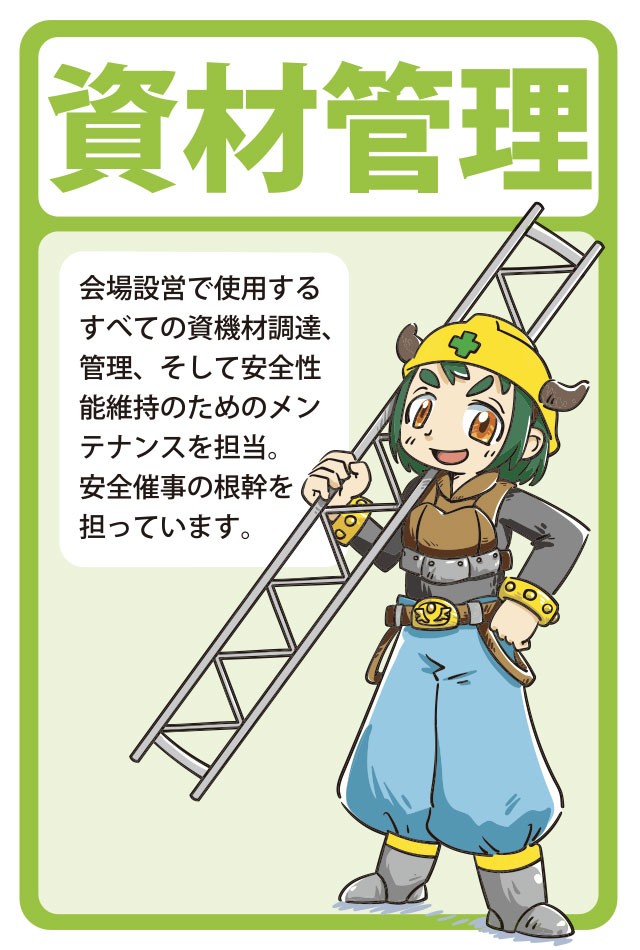
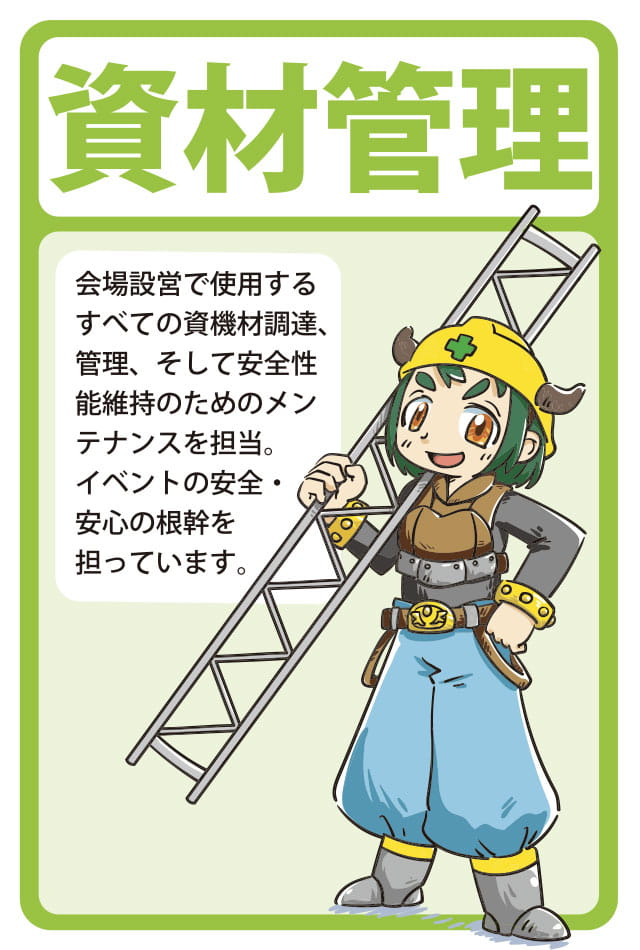
update:事業概要（主なイベント会場）修正、催事→イベント文字修正、カード修正

diff --git a/wp/wp-content/themes/osakashimizu/page-business.php b/wp/wp-content/themes/osakashimizu/page-business.php
@@ -84,60 +84,60 @@ get_header();
                                 <div class="venue-block">
                                     <h3>大阪府</h3>
                                     <ul>
-                                        <li>オリックス劇場</li>
-                                        <li>フェスティバルホール</li>
-                                        <li>Zepp Namba（OSAKA）</li>
-                                        <li>京セラドーム大阪</li>
-                                        <li>大阪城ホール</li>
-                                        <li>Asueアリーナ大阪（大阪市中央体育館）</li>
-                                        <li>エディオンアリーナ大阪（大阪府立体育会館）</li>
-                                        <li>おおきにアリーナ舞洲（舞洲アリーナ）</li>
-                                        <li>ヤンマースタジアム長居（大阪市長居陸上競技場）</li>
+                                        <li>Asueアリーナ大阪</li>
                                         <li>インテックス大阪</li>
-                                        <li>ユニバーサル・スタジオ・ジャパン（USJ）</li>
                                         <li>靭公園</li>
-                                        <li>万博記念公園</li>
-                                        <li>Panasonic Stadium Suita</li>
-                                        <li>東大阪市花園ラグビー場</li>
+                                        <li>エディオンアリーナ大阪（大阪府立体育会館）</li>
+                                        <li>おおきにアリーナ舞洲</li>
+                                        <li>大阪城ホール</li>
                                         <li>大阪中之島美術館</li>
+                                        <li>オリックス劇場</li>
+                                        <li>京セラドーム大阪</li>
                                         <li>Zepp Osaka Bayside</li>
+                                        <li>Zepp Namba（OSAKA）</li>
+                                        <li>Panasonic Stadium Suita</li>
+                                        <li>万博記念公園</li>
+                                        <li>東大阪市花園ラグビー場</li>
+                                        <li>フェスティバルホール</li>
                                         <li>BOAT RACE 住之江</li>
+                                        <li>ヤンマースタジアム長居（大阪市長居陸上競技場）</li>
                                     </ul>
                                 </div>
                                 <div class="venue-block">
                                     <h3>兵庫県</h3>
                                     <ul>
-                                        <li>阪神甲子園球場</li>
-                                        <li>ワールド記念ホール（神戸ポートアイランドホール）</li>
-                                        <li>ブルボンビーンズドーム（兵庫県立三木総合防災公園屋内テニス場）</li>
+                                        <li>GLION ARENA KOBE</li>
+                                        <li>ノエビアスタジアム神戸</li>
                                         <li>阪神競馬場</li>
+                                        <li>阪神甲子園球場</li>
+                                        <li>ブルボンビーンズドーム（兵庫県立三木総合防災公園屋内テニス場）</li>
                                         <li>ほっともっとフィールド神戸（神戸総合運動公園野球場）</li>
-                                        <li>ノエビアスタジアム神戸（御崎公園球場）</li>
+                                        <li>ワールド記念ホール（神戸ポートアイランドホール）</li>
                                     </ul>
                                 </div>
                                 <div class="venue-block">
                                     <h3>京都府</h3>
                                     <ul>
+                                        <li>梅小路公園</li>
+                                        <li>京都競馬場</li>
                                         <li>京都劇場</li>
                                         <li>サンガスタジアム by KYOCERA（京都府立京都スタジアム）</li>
-                                        <li>京都競馬場</li>
-                                        <li>梅小路公園</li>
                                     </ul>
                                 </div>
                                 <div class="venue-block">
                                     <h3>奈良県</h3>
                                     <ul>
-                                        <li>なら100年会館</li>
                                         <li>キトラ古墳壁画体験館 四神の館</li>
                                         <li>国営飛鳥歴史公園</li>
+                                        <li>なら100年会館</li>
                                     </ul>
                                 </div>
                                 <div class="venue-block">
                                     <h3>その他</h3>
                                     <ul>
                                         <li>サンドーム福井（福井県産業振興施設）</li>
-                                        <li>和歌山ビックホエール</li>
                                         <li>鳴門・大塚スポーツパーク ポカリスエットスタジアム（徳島県鳴門総合運動公園陸上競技場）</li>
+                                        <li>和歌山ビッグホエール</li>
                                     </ul>
                                 </div>
                             </div>
@@ -188,7 +188,7 @@ get_header();
                                     <div class="swiper-slide">
                                         <div class="card-front">
                                             <figure>
-                                                <a href="#biz02"><img src="<?php echo get_template_directory_uri(); ?>/assets/img/business/business_card02.jpg" alt="資材管理" width="320" height="475" /></a>
+                                                <a href="#biz02"><img src="<?php echo get_template_directory_uri(); ?>/assets/img/business/business_card02.jpg?2603" alt="資材管理" width="320" height="475" /></a>
                                             </figure>
                                         </div>
                                         <div class="card-back">
@@ -263,7 +263,7 @@ get_header();
                                     <div class="swiper-slide">
                                         <div class="card-front">
                                             <figure>
-                                                <a href="#biz05"><img src="<?php echo get_template_directory_uri(); ?>/assets/img/business/business_card05.jpg" alt="" width="320" height="475" /></a>
+                                                <a href="#biz05"><img src="<?php echo get_template_directory_uri(); ?>/assets/img/business/business_card05.jpg?2603" alt="" width="320" height="475" /></a>
                                             </figure>
                                         </div>
                                         <div class="card-back">
@@ -288,7 +288,7 @@ get_header();
                                     <div class="swiper-slide">
                                         <div class="card-front">
                                             <figure>
-                                                <a href="#biz06"><img src="<?php echo get_template_directory_uri(); ?>/assets/img/business/business_card06.jpg" alt="" width="320" height="475" /></a>
+                                                <a href="#biz06"><img src="<?php echo get_template_directory_uri(); ?>/assets/img/business/business_card06.jpg?2603" alt="" width="320" height="475" /></a>
                                             </figure>
                                         </div>
                                         <div class="card-back">
@@ -507,7 +507,7 @@ get_header();
                                 <!-- スタッフコメント -->
                                 <section class="business-detail__comment">
                                     <figure class="business-detail__comment-media">
-                                        <img src="<?php echo get_template_directory_uri(); ?>/assets/img/business/business_card02.jpg" alt="" width="240" height="356" loading="lazy" class="">
+                                        <img src="<?php echo get_template_directory_uri(); ?>/assets/img/business/business_card02.jpg?2603" alt="" width="240" height="356" loading="lazy" class="">
                                     </figure>
                                     <div class="business-detail__comment-body">
                                         <h4 class="business-detail__comment-title">スタッフコメント</h4>
@@ -774,7 +774,7 @@ get_header();
                                 <!-- スタッフコメント -->
                                 <section class="business-detail__comment">
                                     <figure class="business-detail__comment-media">
-                                        <img src="<?php echo get_template_directory_uri(); ?>/assets/img/business/business_card05.jpg" alt="" width="240" height="356" loading="lazy" class="">
+                                        <img src="<?php echo get_template_directory_uri(); ?>/assets/img/business/business_card05.jpg?2603" alt="" width="240" height="356" loading="lazy" class="">
                                     </figure>
                                     <div class="business-detail__comment-body">
                                         <h4 class="business-detail__comment-title">スタッフコメント</h4>
@@ -849,7 +849,7 @@ get_header();
                                 <!-- スタッフコメント -->
                                 <section class="business-detail__comment">
                                     <figure class="business-detail__comment-media">
-                                        <img src="<?php echo get_template_directory_uri(); ?>/assets/img/business/business_card06.jpg" alt="" width="240" height="356" loading="lazy" class="">
+                                        <img src="<?php echo get_template_directory_uri(); ?>/assets/img/business/business_card06.jpg?2603" alt="" width="240" height="356" loading="lazy" class="">
                                     </figure>
                                     <div class="business-detail__comment-body">
                                         <h4 class="business-detail__comment-title">スタッフコメント</h4>

diff --git a/wp/wp-content/themes/osakashimizu/functions.php b/wp/wp-content/themes/osakashimizu/functions.php
@@ -233,10 +233,10 @@ function my_recruit_card_image( $job_position ) {
     'jp_mechanism'             => array( 'file' => 'recruit_card04.jpg', 'alt' => '機構' ),
     'jp_printing_operator'     => array( 'file' => 'recruit_card05.jpg', 'alt' => '印刷オペレーター' ),
     'jp_art_production'        => array( 'file' => 'recruit_card06.jpg', 'alt' => '美術制作' ),
-    'jp_stage_art'             => array( 'file' => 'recruit_card07.jpg', 'alt' => '舞台美術' ),
+    'jp_stage_art'             => array( 'file' => 'recruit_card07.jpg?2603', 'alt' => '舞台美術' ),
     'jp_event_director_sales'  => array( 'file' => 'recruit_card08.jpg', 'alt' => 'イベントディレクター（企画営業）' ),
     'jp_operation_director'    => array( 'file' => 'recruit_card09.jpg', 'alt' => '運営ディレクター' ),
-    'jp_security_director'     => array( 'file' => 'recruit_card10.jpg', 'alt' => '警備ディレクター' ),
+    'jp_security_director'     => array( 'file' => 'recruit_card10.jpg?2603', 'alt' => '警備ディレクター' ),
     'jp_accounting'            => array( 'file' => 'recruit_card11.jpg', 'alt' => '経理' ),
     'jp_general_affairs_hr'    => array( 'file' => 'recruit_card12.jpg', 'alt' => '総務・人事' ),
     'jp_pr_recruit'            => array( 'file' => 'recruit_card13.jpg', 'alt' => '広報・採用' ),
